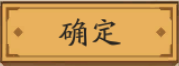
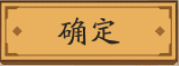
fix(GlobalGame): Preserve current and historical confirm/cancel button assets

diff --git a/tasks/GlobalGame/assets.py b/tasks/GlobalGame/assets.py
@@ -39,10 +39,14 @@ class GlobalGameAssets:
 
 
 	# Image Rule Assets
+	# 长一点的确认（旧） 
+	I_UI_CONFIRM_OLD = RuleImage(roi_front=(685,376,179,66), roi_back=(663,334,232,193), threshold=0.8, method="Template matching", file="./tasks/GlobalGame/ui/ui_ui_confirm_old.png")
 	# 长一点的确认 
-	I_UI_CONFIRM = RuleImage(roi_front=(664,406,179,66), roi_back=(547,368,322,122), threshold=0.8, method="Template matching", file="./tasks/GlobalGame/ui/ui_ui_confirm.png")
+	I_UI_CONFIRM = RuleImage(roi_front=(664,407,179,66), roi_back=(643,389,214,95), threshold=0.8, method="Template matching", file="./tasks/GlobalGame/ui/ui_ui_confirm.png")
+	# 长一点的取消（旧） 
+	I_UI_CANCEL_OLD = RuleImage(roi_front=(417,368,177,62), roi_back=(366,349,261,173), threshold=0.8, method="Template matching", file="./tasks/GlobalGame/ui/ui_ui_cancel_old.png")
 	# 长一点的取消 
-	I_UI_CANCEL = RuleImage(roi_front=(438,406,177,62), roi_back=(423,384,202,95), threshold=0.8, method="Template matching", file="./tasks/GlobalGame/ui/ui_ui_cancel.png")
+	I_UI_CANCEL = RuleImage(roi_front=(438,407,177,62), roi_back=(356,384,276,125), threshold=0.8, method="Template matching", file="./tasks/GlobalGame/ui/ui_ui_cancel.png")
 	# '获得奖励' 四个大字 
 	I_UI_REWARD = RuleImage(roi_front=(530,126,211,66), roi_back=(464,69,352,303), threshold=0.73, method="Template matching", file="./tasks/GlobalGame/ui/ui_ui_reward.png")
 	# 右上角红色关闭按钮 
